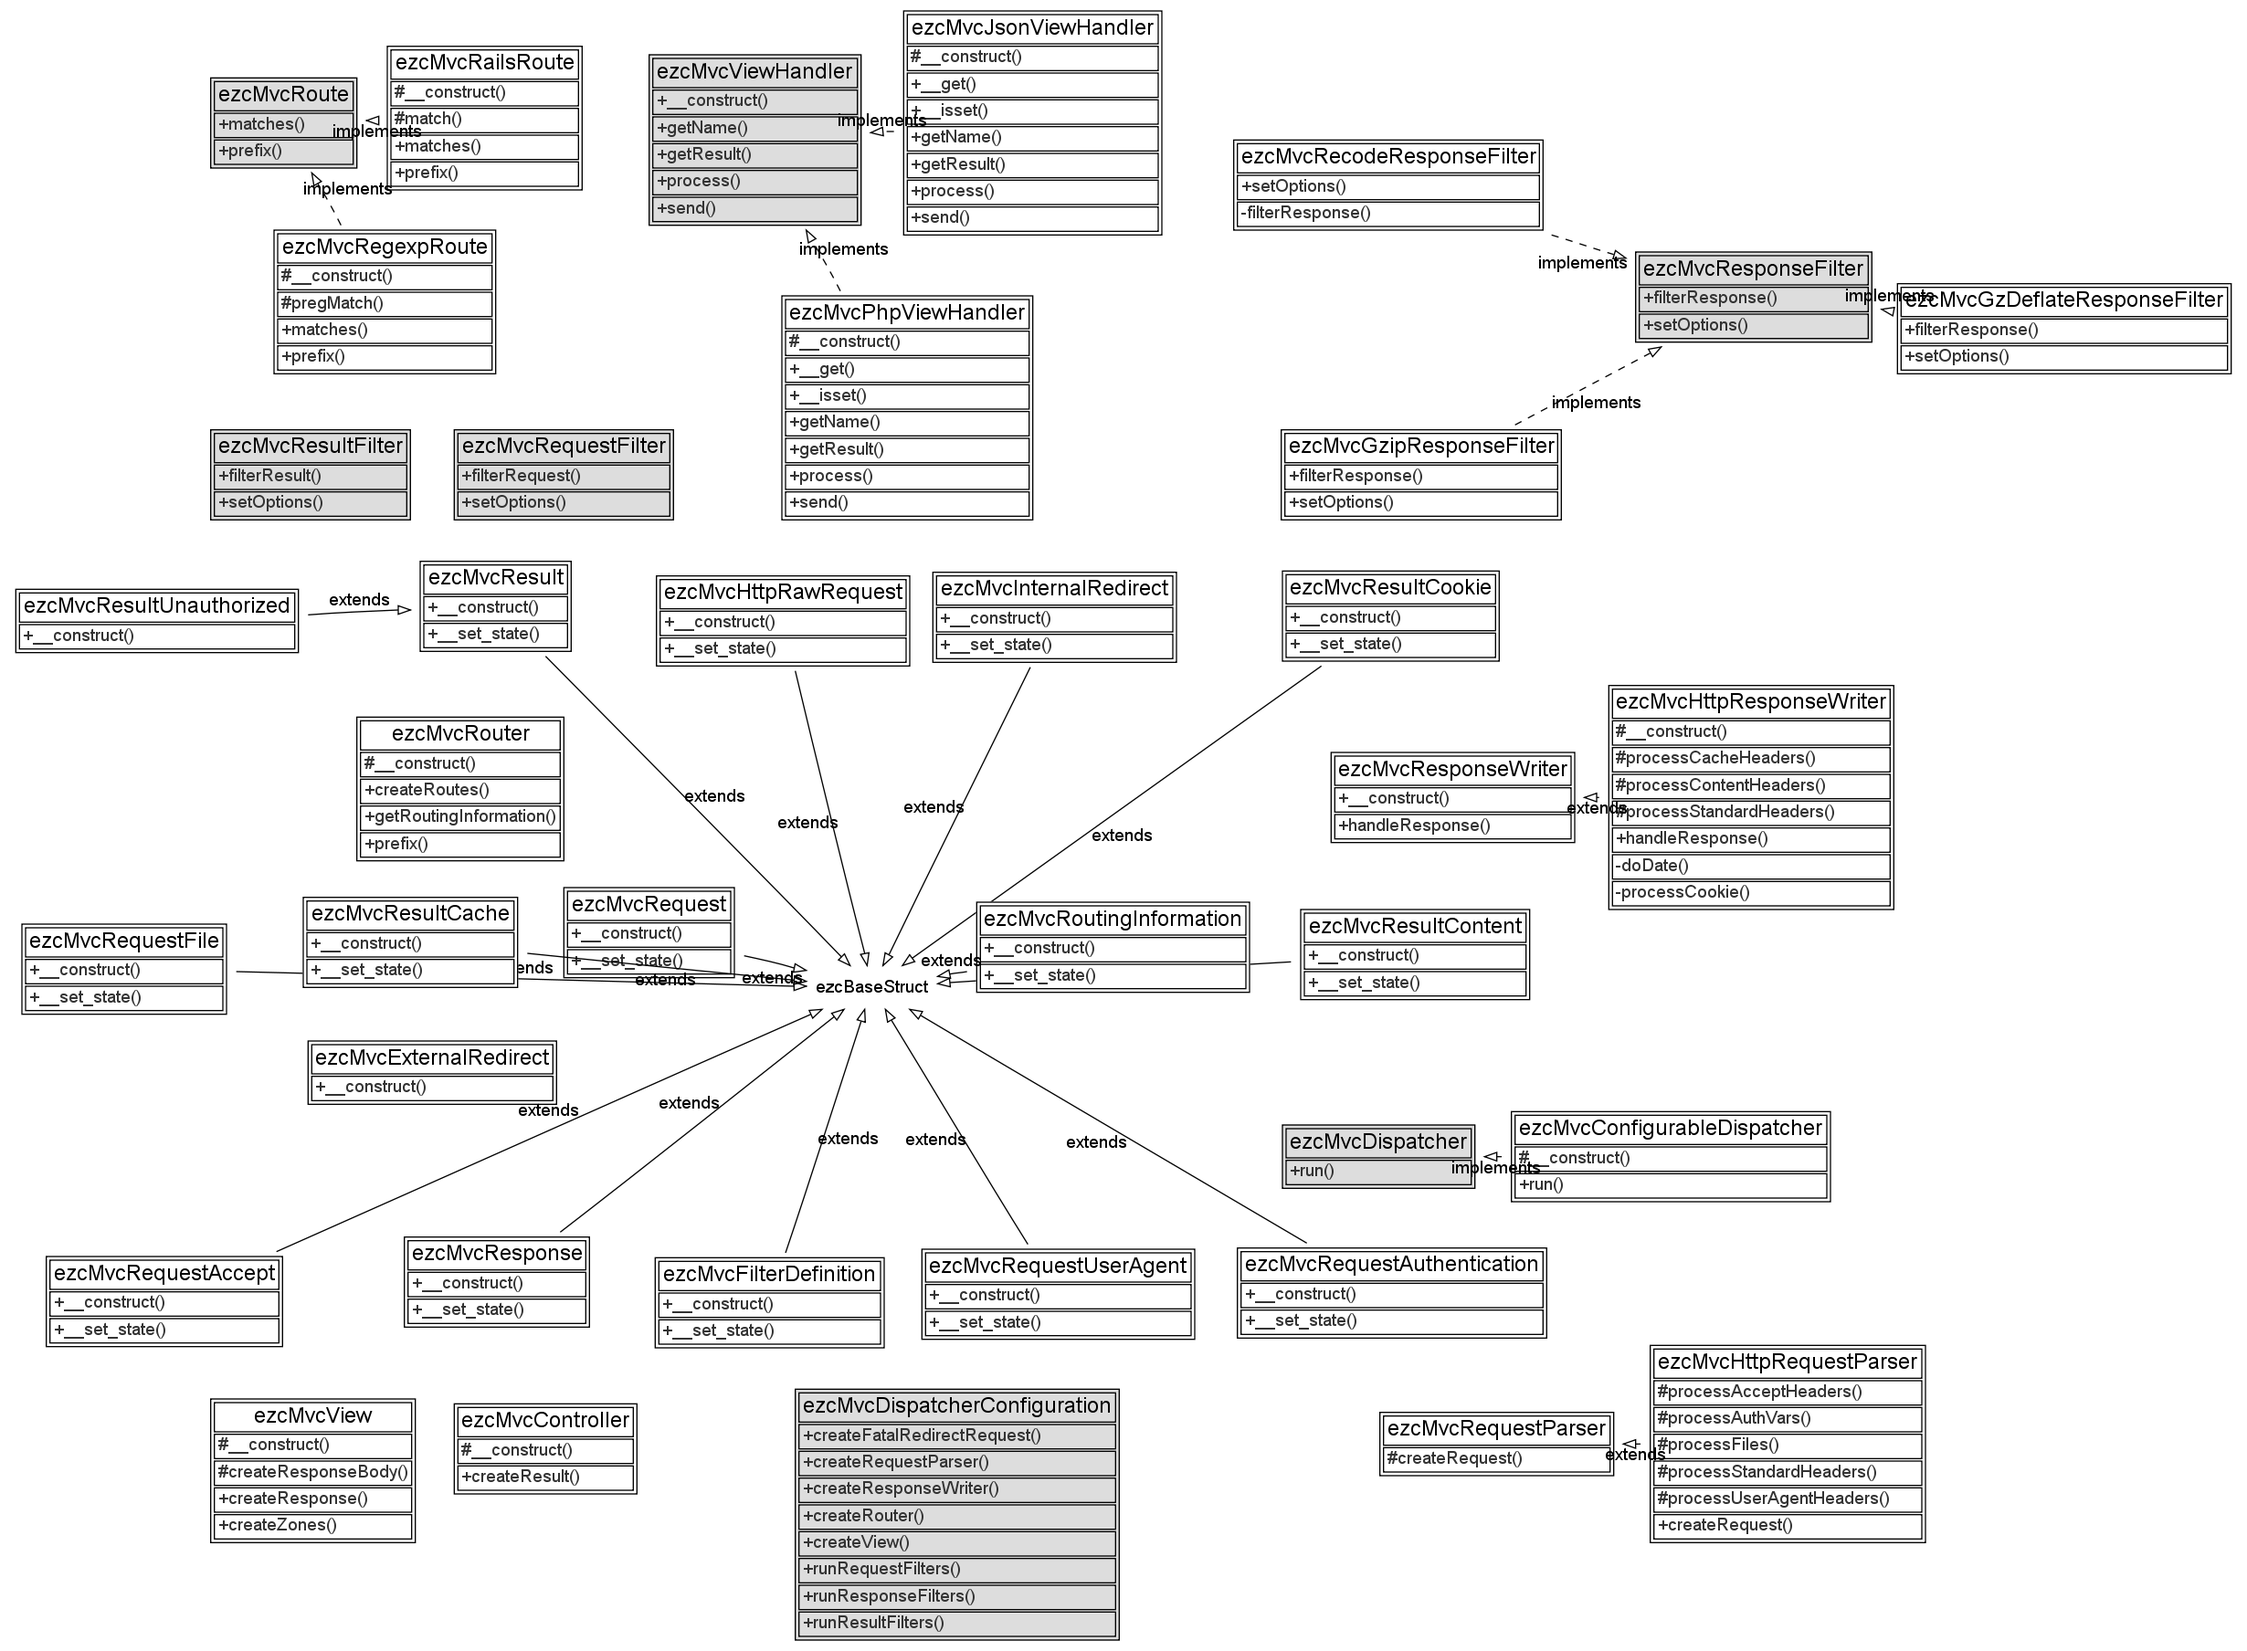
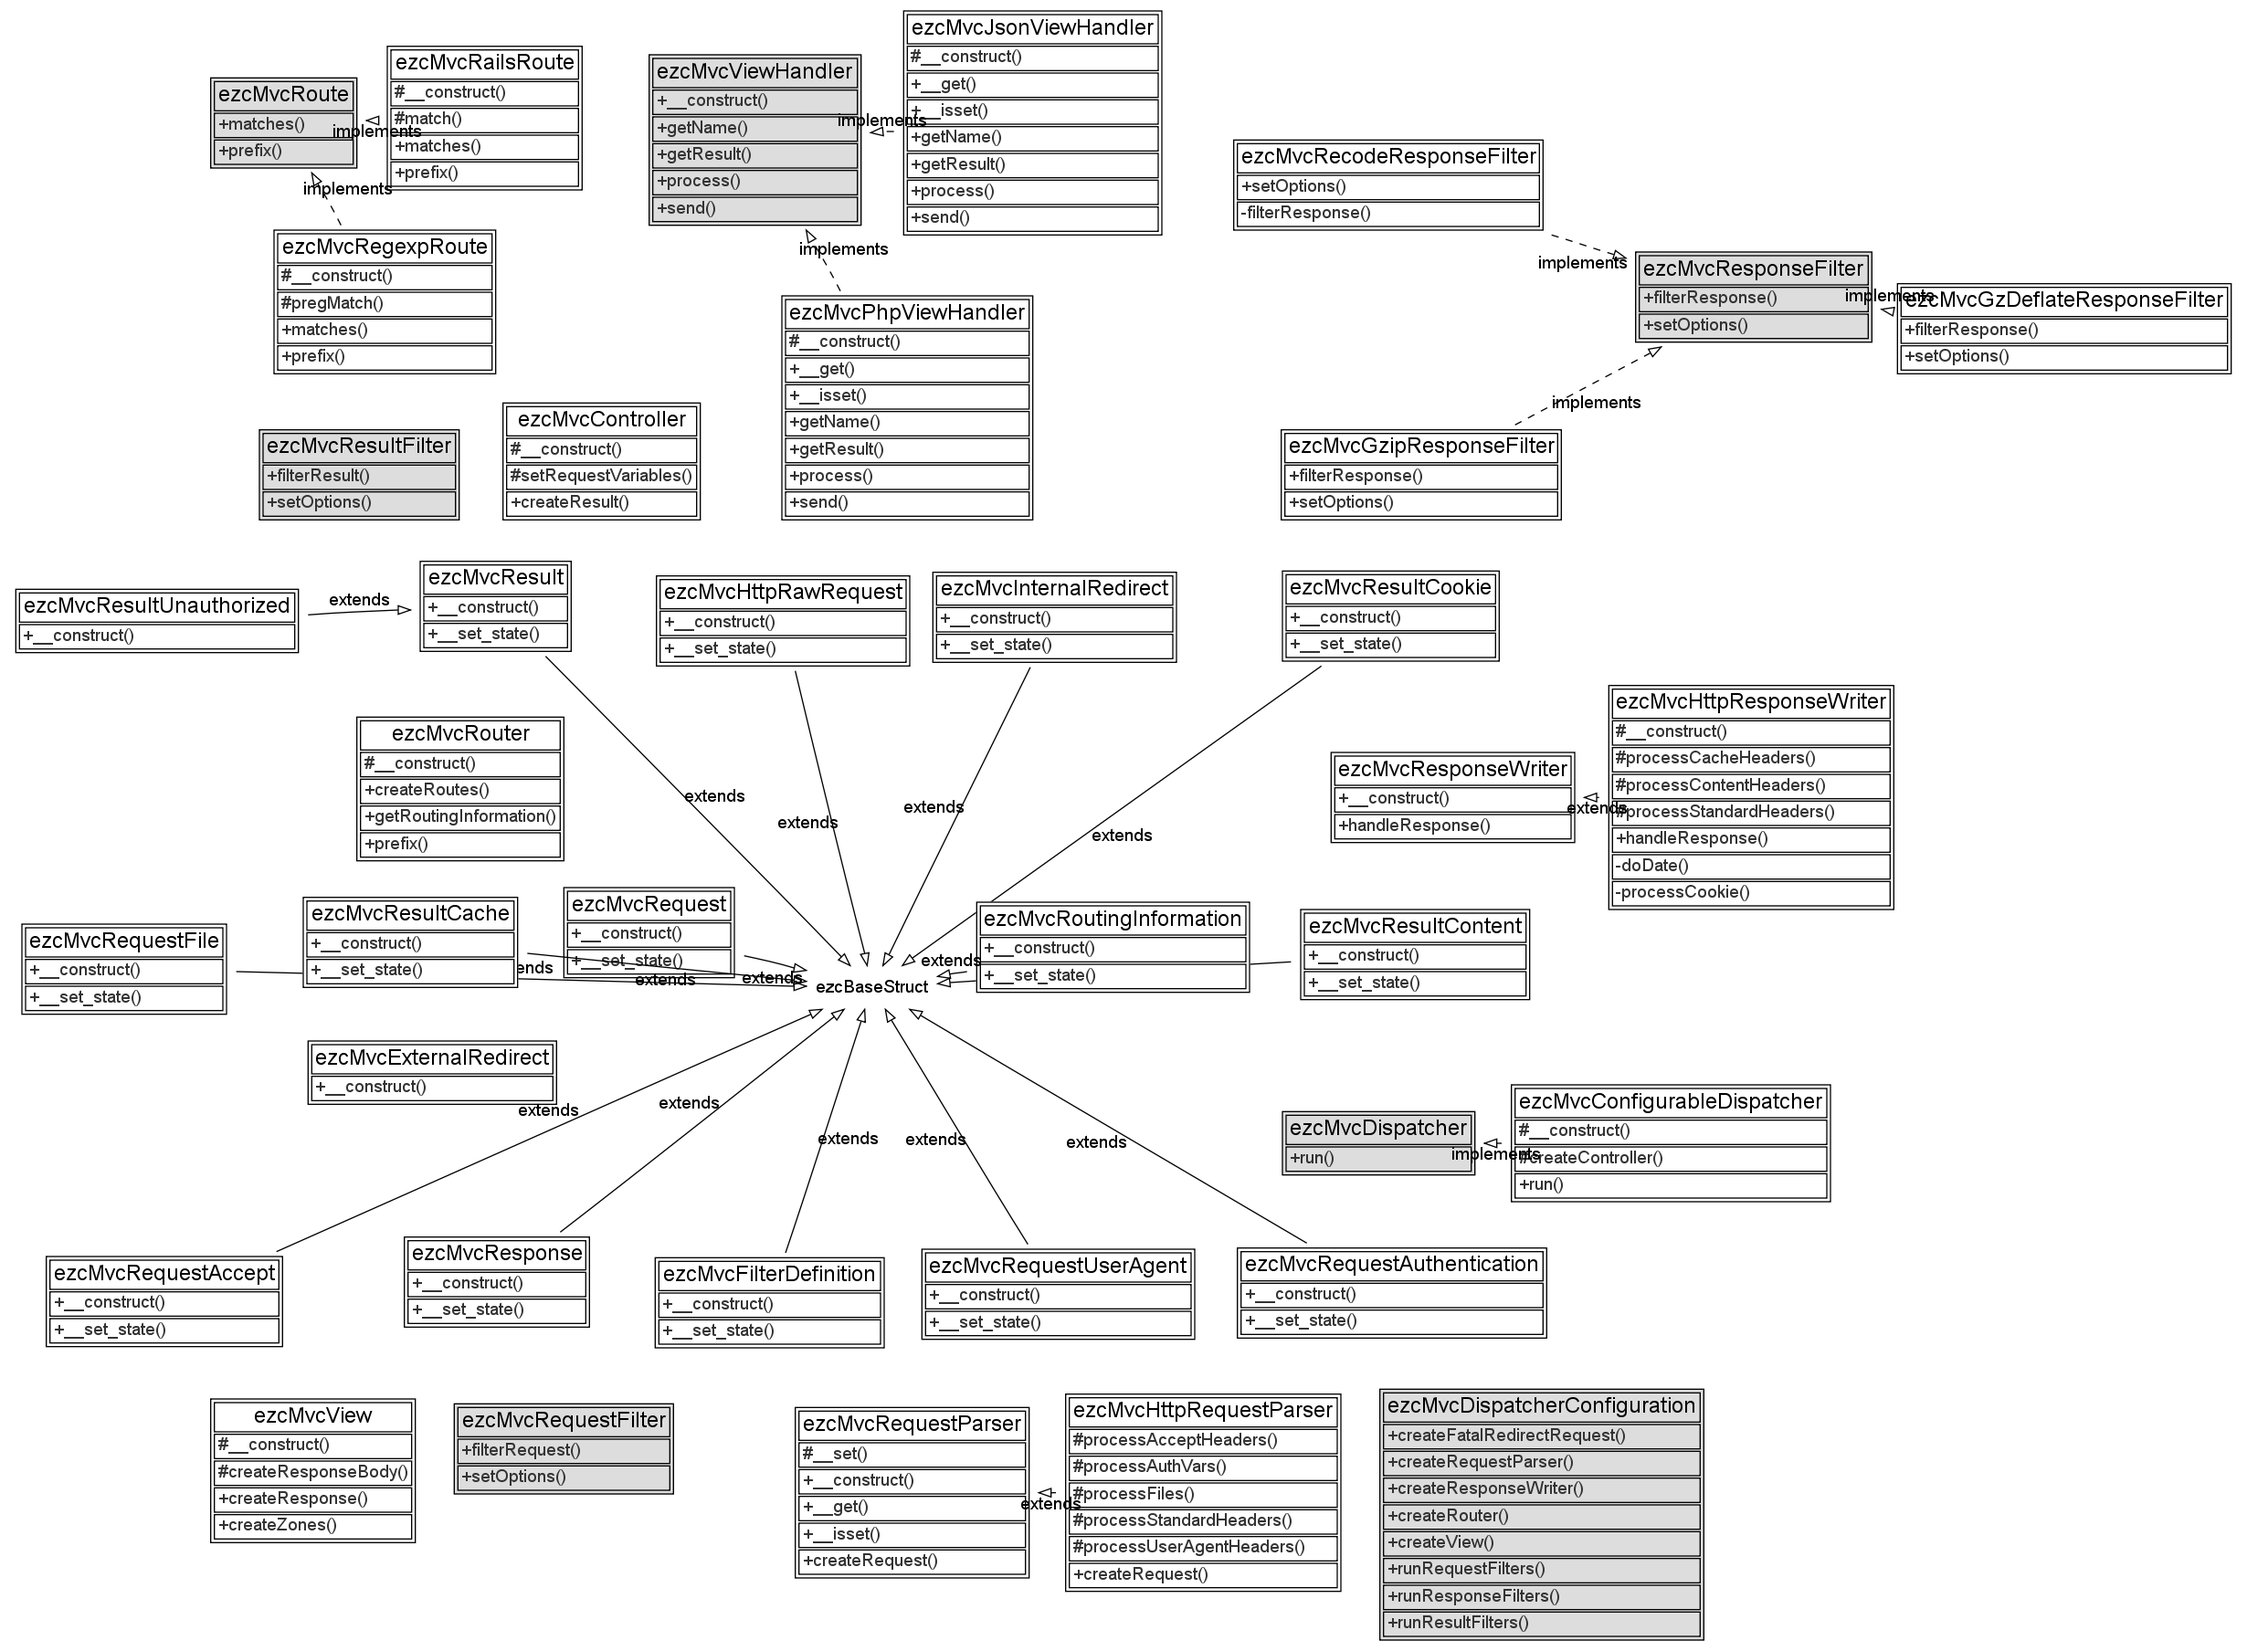
- Refactored ezcMvcController to allow easier overloading by inherited classes. - Fixed a bug in action method name generation in the controller. - Fixed issue #13772: Changed the controller to require an action method.
git-svn-id: https://svn.apache.org/repos/asf/incubator/zetacomponents/trunk@976444 13f79535-47bb-0310-9956-ffa450edef68

diff --git a/MvcTools/src/interfaces/controller.php b/MvcTools/src/interfaces/controller.php
@@ -38,16 +38,43 @@ abstract class ezcMvcController
     /**
      * Creates a new controller object and sets all the request variables as class variables.
      *
+     * @throws ezcMvcControllerException if the action method is empty
+     * @param string        $action
      * @param ezcMvcRequest $request
      */
     public function __construct( $action, ezcMvcRequest $request )
+    {
+        if ( ezcBase::inDevMode() && ( !is_string( $action ) || strlen( $action ) == 0 ) )
+        {
+            throw new ezcMvcControllerException( "The '" . get_class( $this ) . "' controller requires an action." );
+        }
+        $this->action = $action;
+        $this->setRequestVariables( $request );
+    }
+
+    /**
+     * Loops over all the variables in the request, and sets them as object properties.
+     *
+     * @param ezcMvcRequest $request
+     */
+    protected function setRequestVariables( ezcMvcRequest $request )
     {
         foreach ( $request->variables as $key => $value )
         {
             $this->$key = $value;
         }
         $this->request = $request;
-        $this->action = $action;
+    }
+
+    /**
+     * Creates a method name to call from an action name.
+     *
+     * @return string
+     */
+    protected function createActionMethodName()
+    {
+        $actionMethod = 'do' . preg_replace( '@[^A-Za-z]@', '', preg_replace( '@[A-Za-z]+@e', 'ucfirst( "\\0" )', $this->action ) );
+        return $actionMethod;
     }
 
     /**
@@ -58,7 +85,7 @@ abstract class ezcMvcController
      */
     public function createResult()
     {
-        $actionMethod = 'do' . preg_replace( '@\W@', '', preg_replace( '@\w+@e', 'ucfirst( "\\0" )', $this->action ) );
+        $actionMethod = $this->createActionMethodName();
 
         if ( method_exists( $this, $actionMethod ) )
         {

diff --git a/MvcTools/tests/suite.php b/MvcTools/tests/suite.php
@@ -14,6 +14,7 @@
 require 'routes/regexp.php';
 require 'routes/rails.php';
 require 'router.php';
+require 'controller.php';
 require 'views/php.php';
 require 'views/json.php';
 require 'view.php';
@@ -39,6 +40,7 @@ class ezcMvcToolsSuite extends PHPUnit_Framework_TestSuite
         $this->addTest( ezcMvcToolsRegexpRouteTest::suite() );
         $this->addTest( ezcMvcToolsRailsRouteTest::suite() );
         $this->addTest( ezcMvcToolsRouterTest::suite() );
+        $this->addTest( ezcMvcToolsControllerTest::suite() );
         $this->addTest( ezcMvcToolsViewTest::suite() );
         $this->addTest( ezcMvcToolsPhpViewTest::suite() );
         $this->addTest( ezcMvcToolsJsonViewTest::suite() );

diff --git a/MvcTools/src/mvc_autoload.php b/MvcTools/src/mvc_autoload.php
@@ -11,6 +11,7 @@
 
 return array(
     'ezcMvcToolsException'              => 'MvcTools/exceptions/exception.php',
+    'ezcMvcControllerException'         => 'MvcTools/exceptions/controller.php',
     'ezcMvcFilterHasNoOptionsException' => 'MvcTools/exceptions/filter_has_no_options.php',
     'ezcMvcInfiniteLoopException'       => 'MvcTools/exceptions/infinite_loop.php',
     'ezcMvcInvalidEncodingException'    => 'MvcTools/exceptions/invalid_encoding.php',
